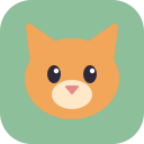
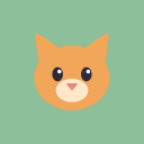
Version 0.7: Weglegen-Modus, Bildschirm ausfuellen, Symbol maskable

diff --git a/index.html b/index.html
@@ -112,7 +112,7 @@ body {
 
 		<script src="index.js"></script>
 		<script>
-const GODOT_CONFIG = {"args":[],"canvasResizePolicy":2,"emscriptenPoolSize":8,"ensureCrossOriginIsolationHeaders":false,"executable":"index","experimentalVK":false,"fileSizes":{"index.pck":761104,"index.wasm":39514754},"focusCanvas":true,"gdextensionLibs":[],"godotPoolSize":4,"serviceWorker":"index.service.worker.js"};
+const GODOT_CONFIG = {"args":[],"canvasResizePolicy":2,"emscriptenPoolSize":8,"ensureCrossOriginIsolationHeaders":false,"executable":"index","experimentalVK":false,"fileSizes":{"index.pck":771988,"index.wasm":39514754},"focusCanvas":true,"gdextensionLibs":[],"godotPoolSize":4,"serviceWorker":"index.service.worker.js"};
 const GODOT_THREADS_ENABLED = false;
 const engine = new Engine(GODOT_CONFIG);
 

diff --git a/index.service.worker.js b/index.service.worker.js
@@ -4,7 +4,7 @@
 // Incrementing CACHE_VERSION will kick off the install event and force
 // previously cached resources to be updated from the network.
 /** @type {string} */
-const CACHE_VERSION = '1794435140|1923814';
+const CACHE_VERSION = '1794506246|1799776';
 /** @type {string} */
 const CACHE_PREFIX = 'Loot & Lern-sw-cache-';
 const CACHE_NAME = CACHE_PREFIX + CACHE_VERSION;
